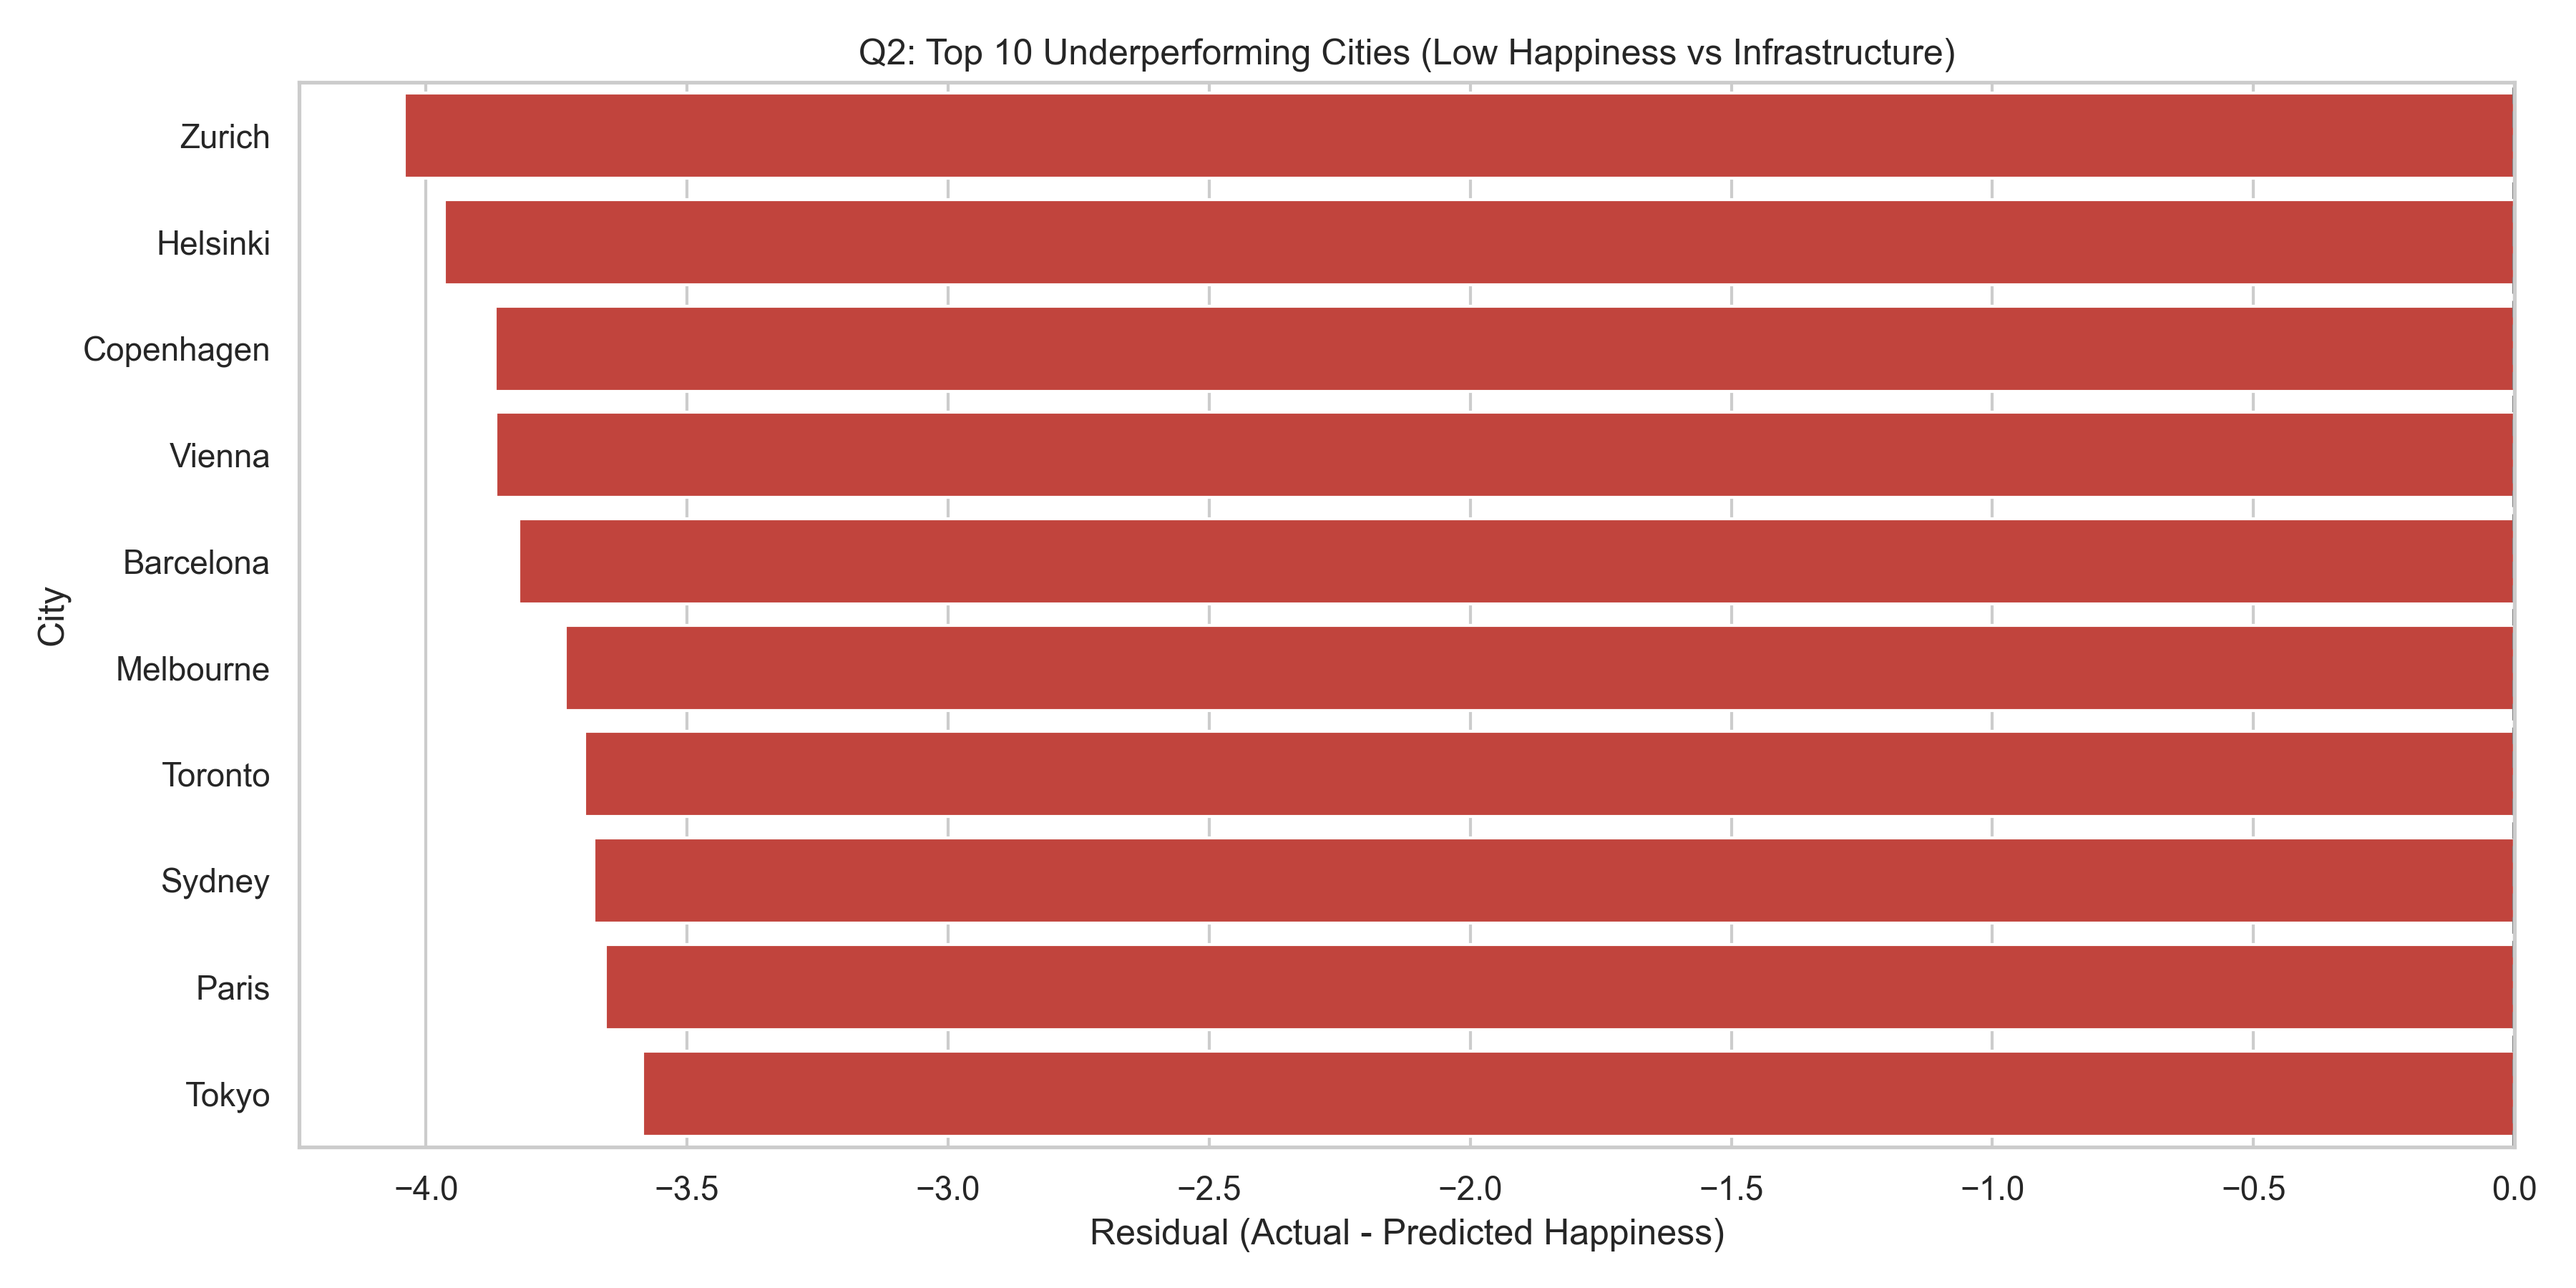
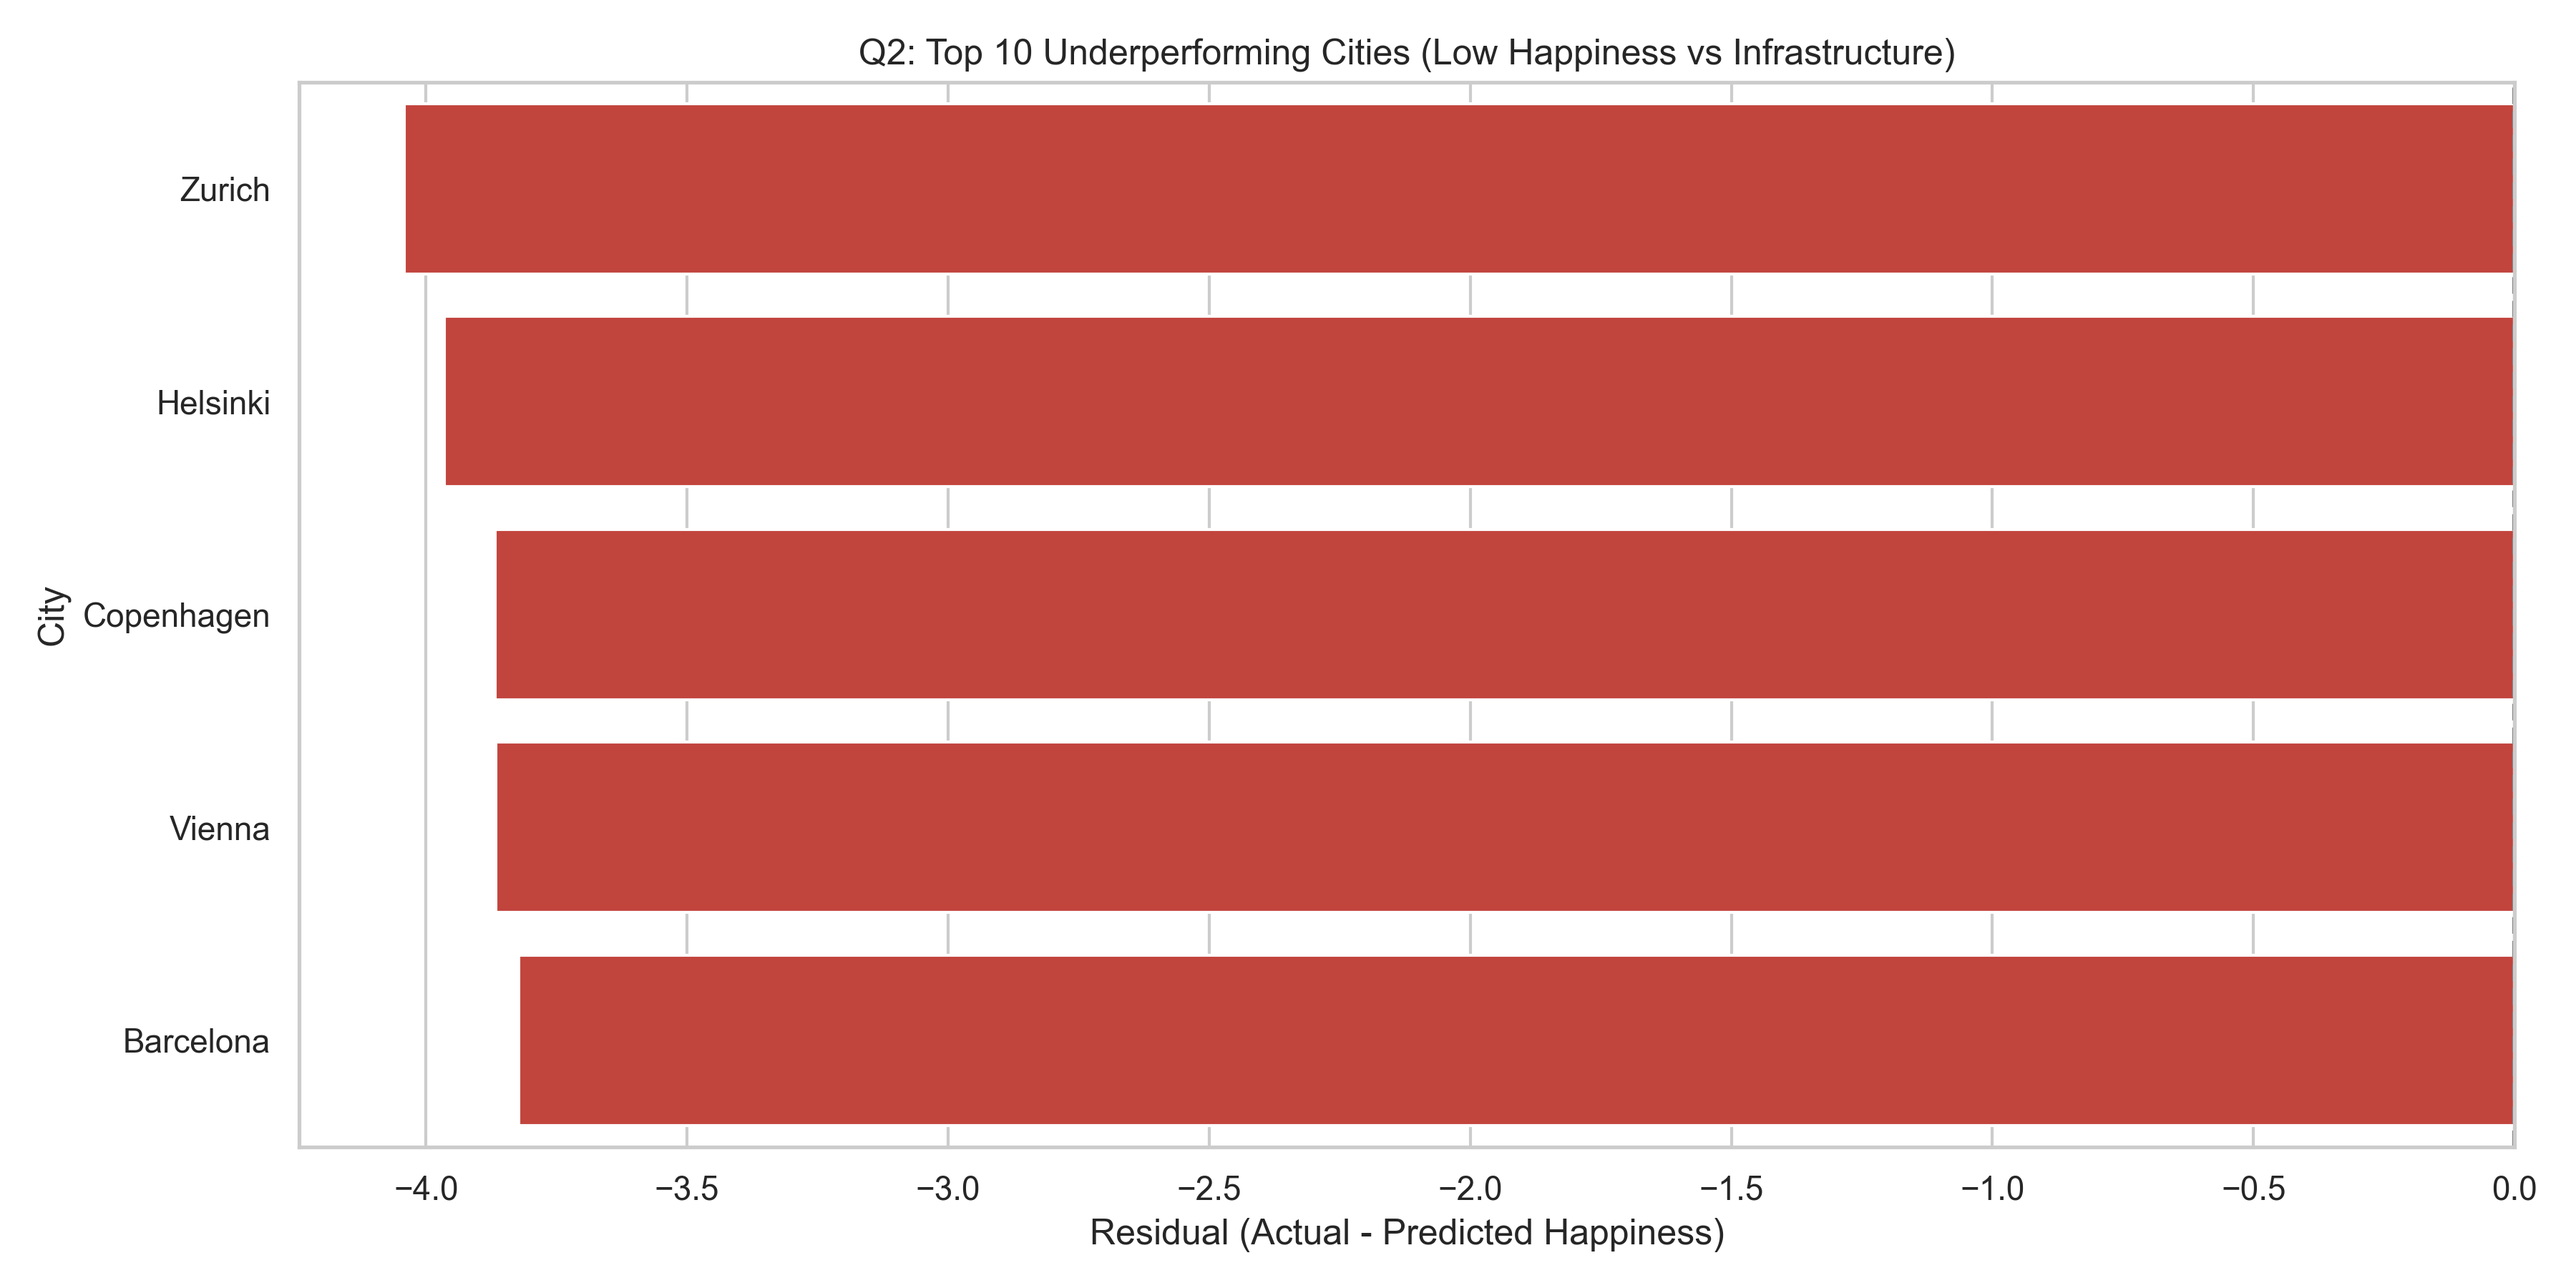
commit

diff --git a/code/02_eda_cleaning.py b/code/02_eda_cleaning.py
@@ -861,11 +861,11 @@ def generate_business_question_plots(df, output_dir="business_output"):
 
     # 2. Top 10 Underperformers
 
-
-    underperformers = df_q2.sort_values('residual').head(10)
+    underperformers = df_q2.sort_values('residual').head(5)
 
     plt.figure(figsize=(12, 6))
-    sns.barplot(data=underperformers, x='residual', y='city', order=underperformers.sort_values('residual')['city'], color='#d73027')
+    sns.barplot(data=underperformers, x='residual', y='city', order=underperformers.sort_values('residual',ascending=True)['city'], color='#d73027')
+
     plt.axvline(0, color='gray', linestyle='--')
     plt.title("Q2: Top 10 Underperforming Cities (Low Happiness vs Infrastructure)")
     plt.xlabel("Residual (Actual - Predicted Happiness)")
@@ -878,10 +878,11 @@ def generate_business_question_plots(df, output_dir="business_output"):
   
     # 3. Top 10 Overperformers (Optional)
 
-    overperformers = df_q2.sort_values('residual', ascending=False).head(10)
+    overperformers = df_q2.sort_values('residual', ascending=False).head(5)
 
     plt.figure(figsize=(12, 6))
     sns.barplot(data=overperformers, x='residual', y='city',order=overperformers.sort_values('residual', ascending=False)['city'], color='#1a9850')
+
     plt.axvline(0, color='gray', linestyle='--')
     plt.title("Q2: Top 10 Overperforming Cities (High Happiness vs Infrastructure)")
     plt.xlabel("Residual (Actual - Predicted Happiness)")
